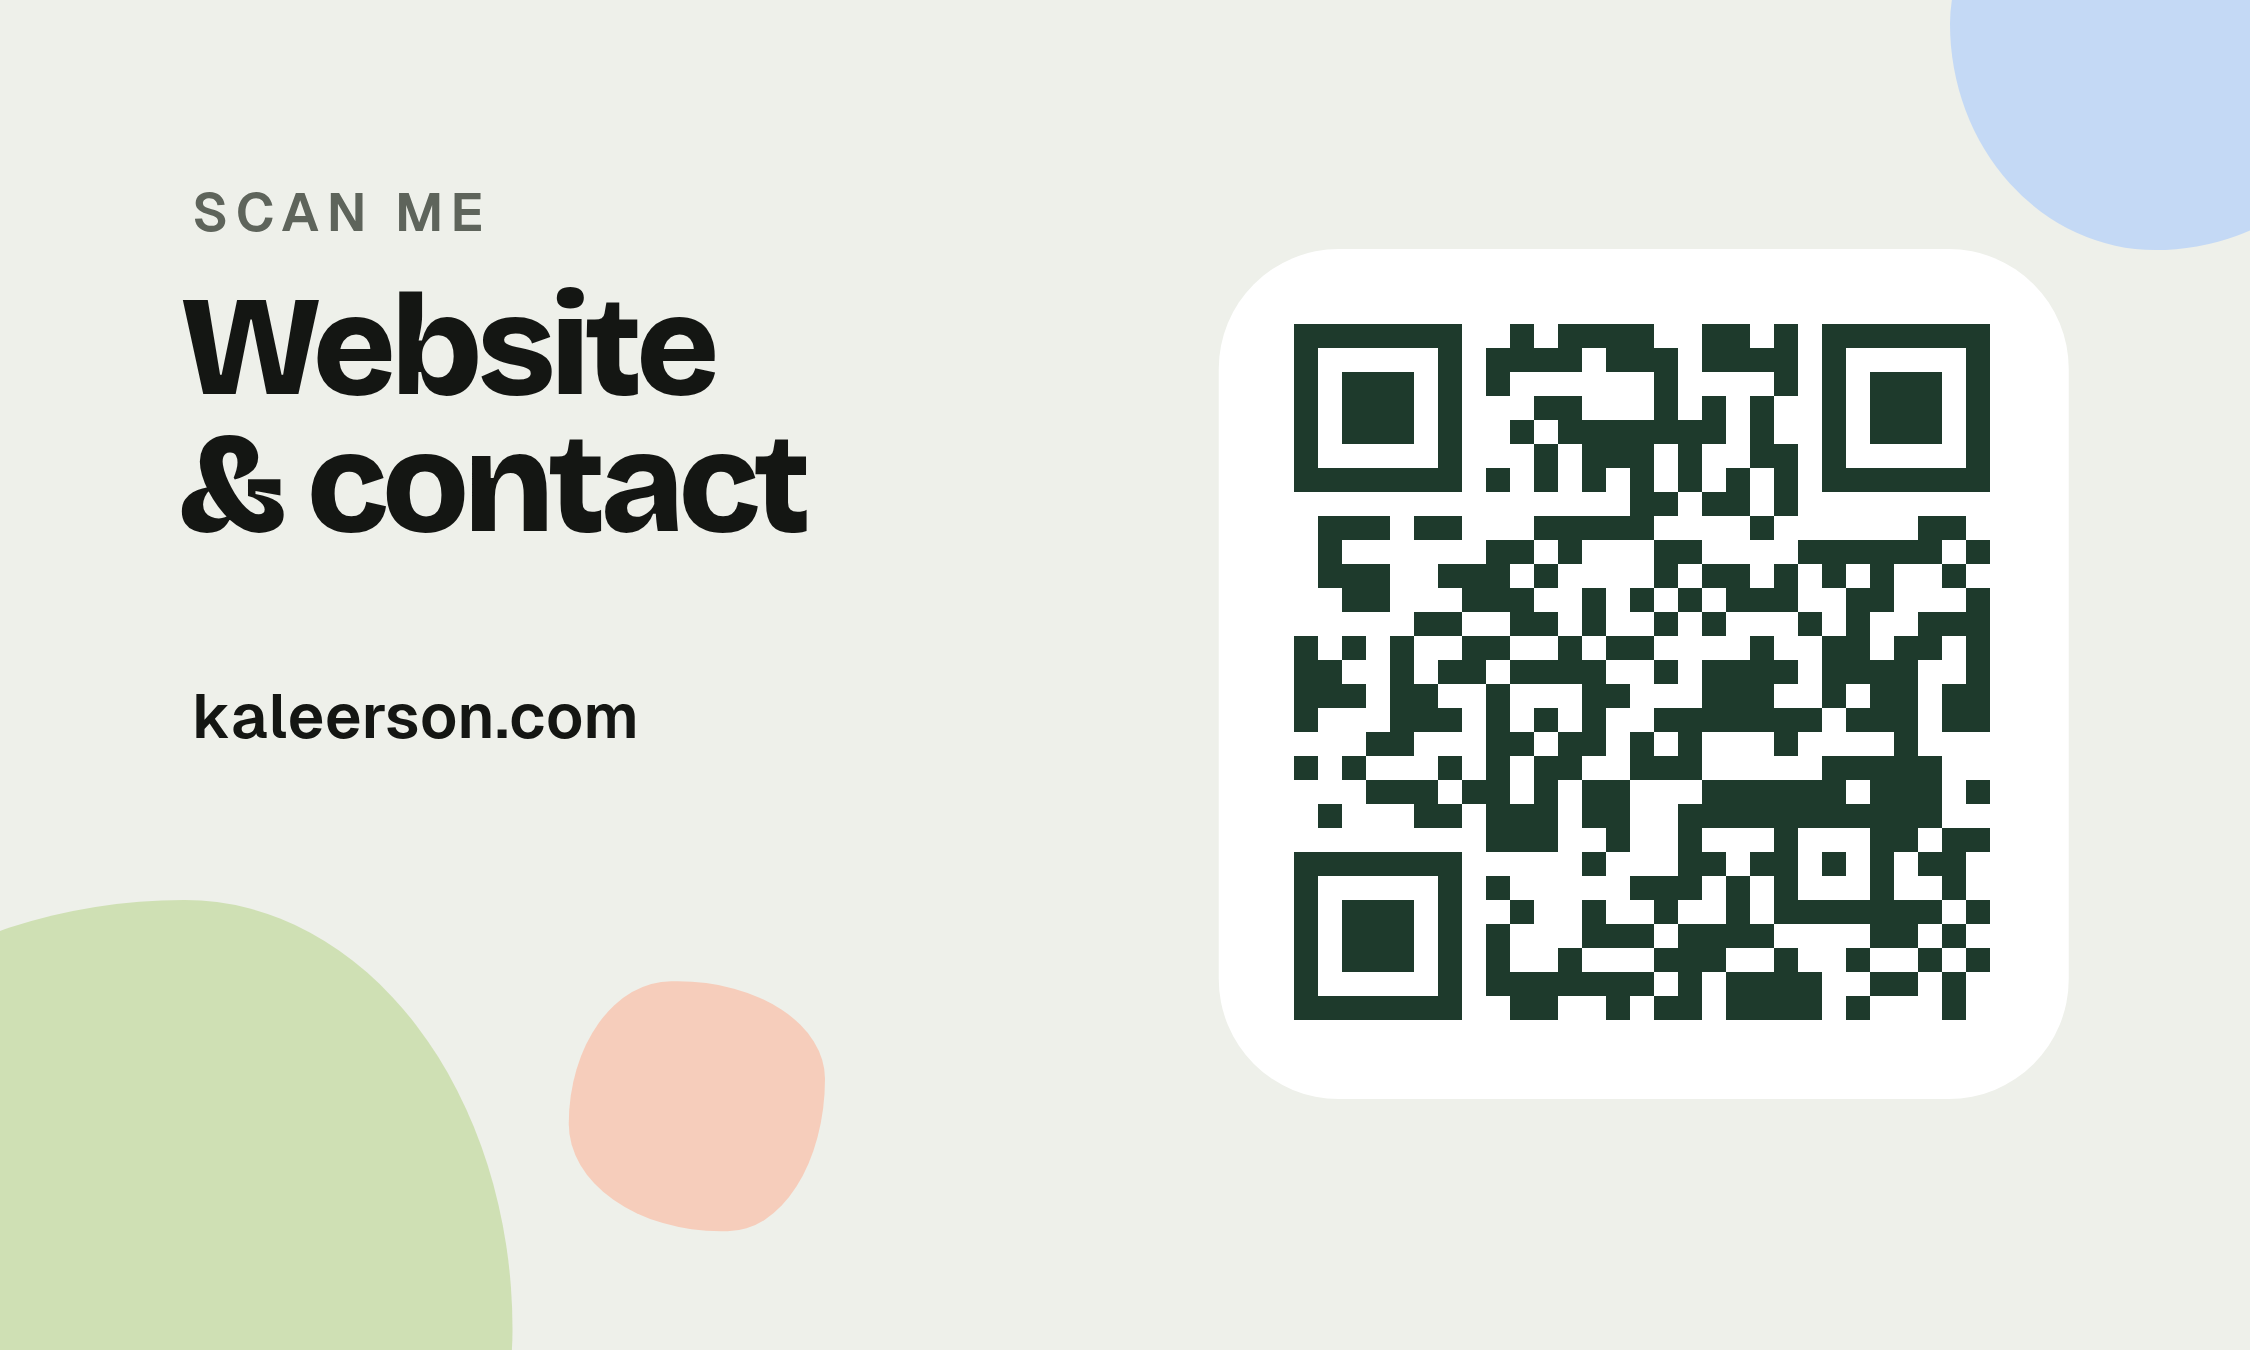
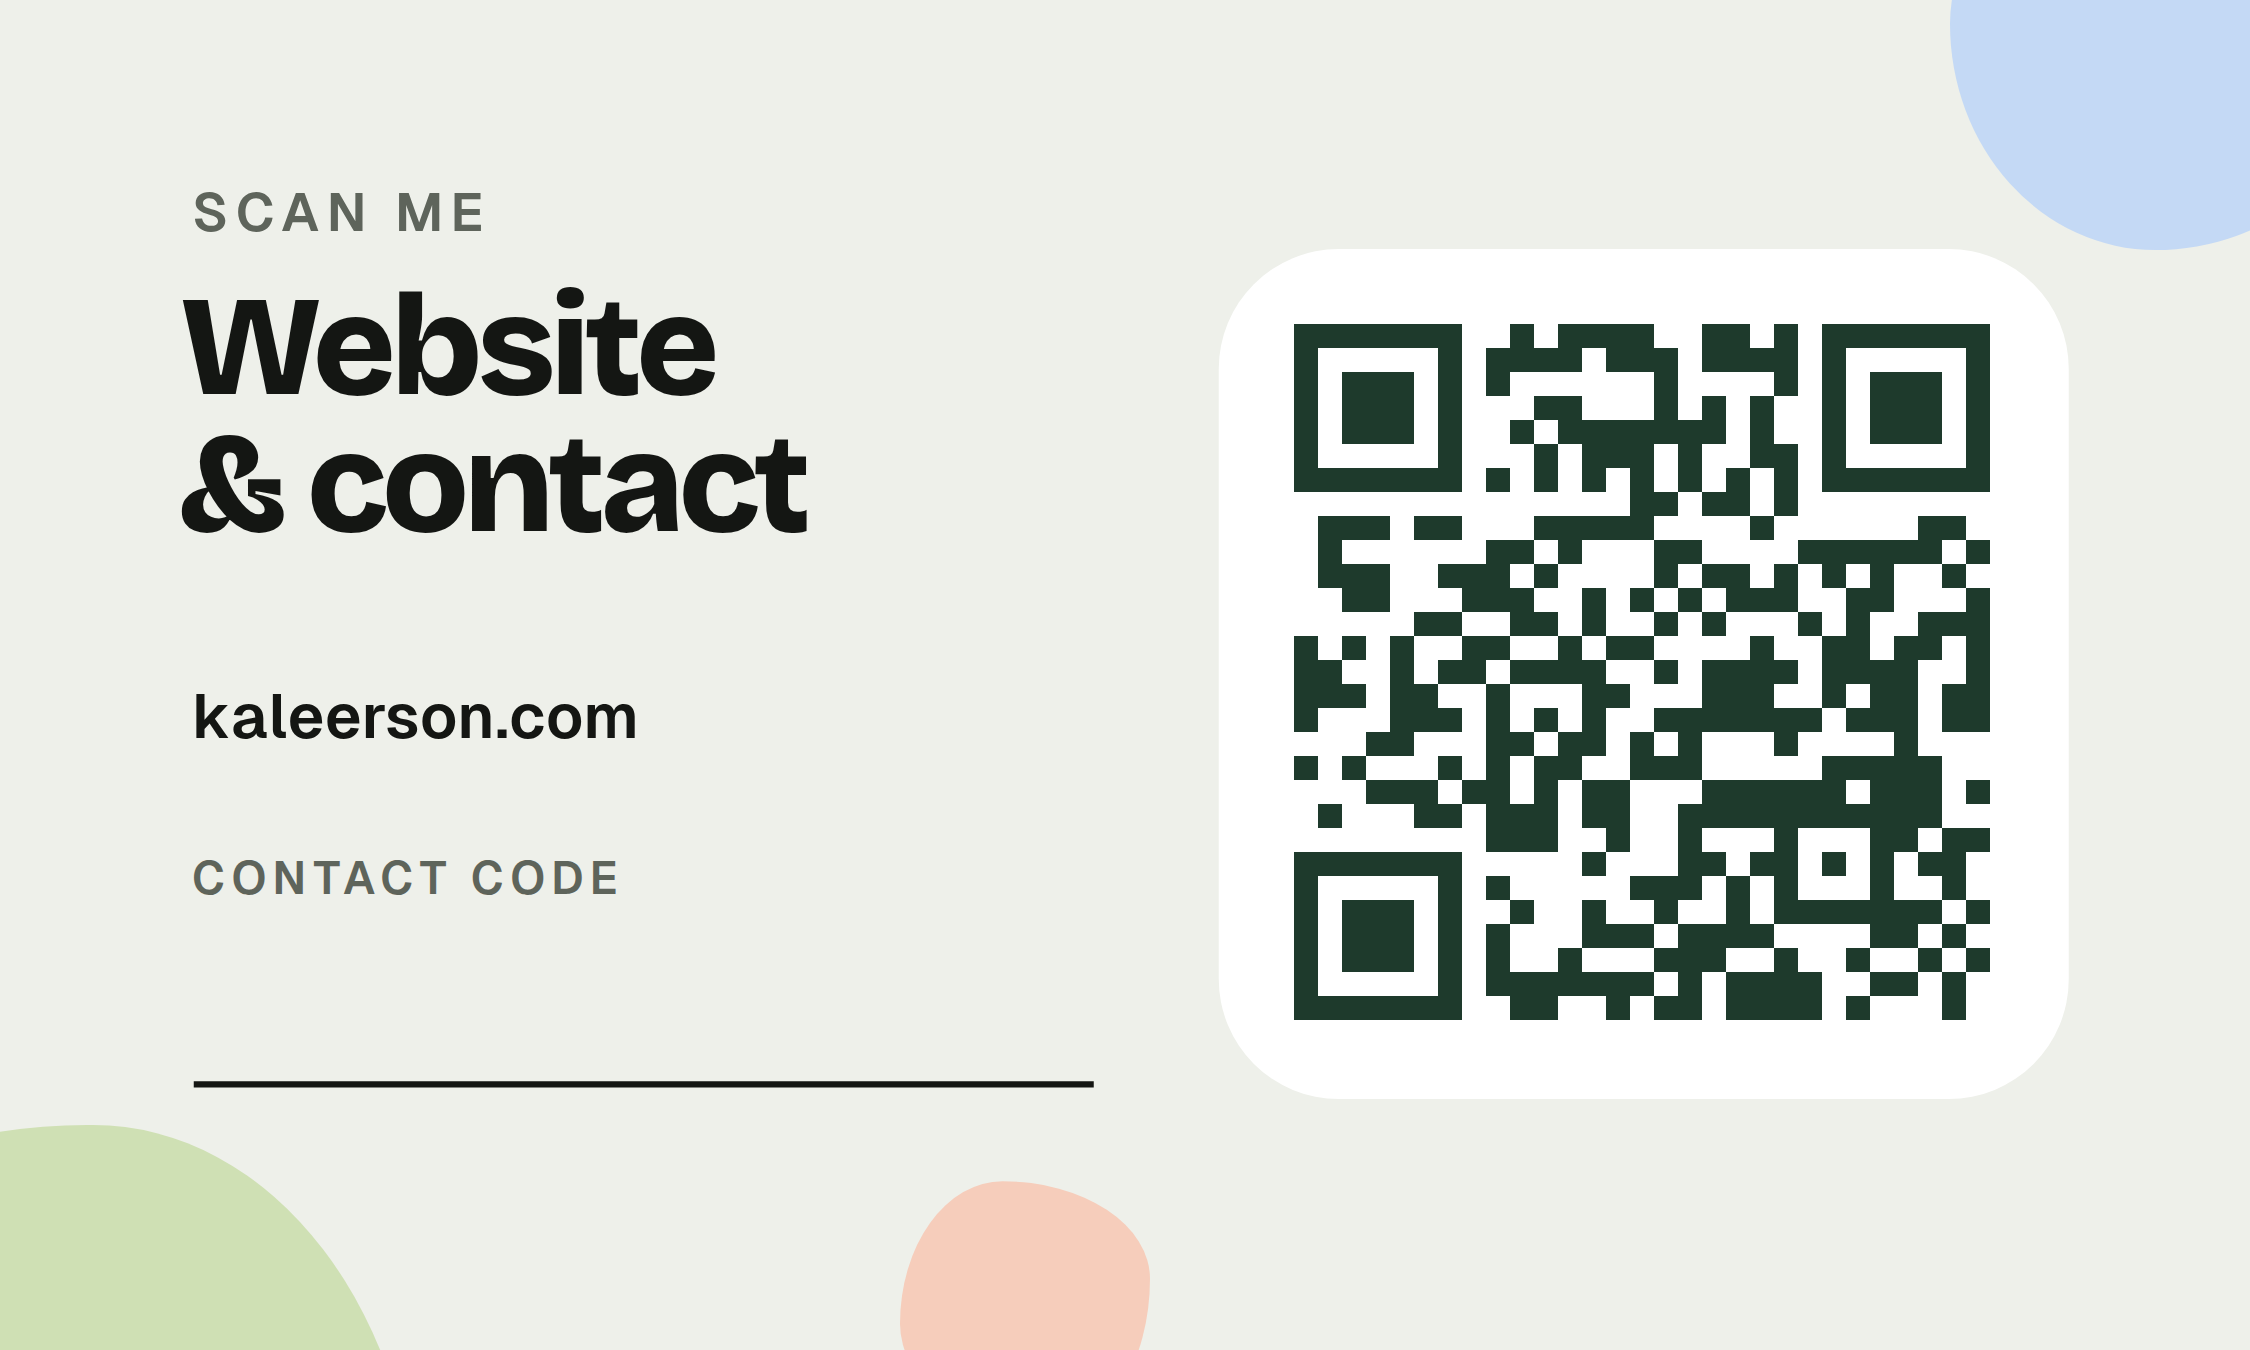
Add a write-in contact code line to the business card back
Claude-Session: https://claude.ai/code/session_01NyKGtDEnajGU1eFKV4tGGr

Changed region(s): [[0.0, 0.6222, 0.4978, 1.0], [0.3733, 0.8711, 0.5289, 1.0]]

diff --git a/design/business-card/build.js b/design/business-card/build.js
@@ -28,12 +28,14 @@ const front=`${base}<div class="card" style="background:#1E3A2C">
  <div style="position:absolute;left:.32in;bottom:.3in;font:500 7pt G,sans-serif;color:#B9C9AE">Las Vegas, Nevada</div>
  GUIDES</div>`;
 const back=`${base}<div class="card" style="background:#EEF0EA">
- <span class="blob" style="width:1.3in;height:1.3in;left:-.45in;bottom:-.55in;background:#CFE0B4"></span>
- <span class="blob" style="width:.42in;height:.42in;left:.95in;bottom:.2in;background:#F6CDBB;border-radius:41% 59% 39% 61% / 57% 39% 61% 43%"></span>
+ <span class="blob" style="width:1.3in;height:1.3in;left:-.6in;bottom:-.92in;background:#CFE0B4"></span>
+ <span class="blob" style="width:.42in;height:.42in;left:1.5in;bottom:-.14in;background:#F6CDBB;border-radius:41% 59% 39% 61% / 57% 39% 61% 43%"></span>
  <span class="blob" style="width:.7in;height:.7in;right:-.2in;top:-.28in;background:#C4D9F5"></span>
  <div style="position:absolute;left:.32in;top:.3in;font:600 6.5pt G,sans-serif;letter-spacing:.14em;color:#5E645B;text-transform:uppercase">Scan me</div>
  <div style="position:absolute;left:.3in;top:.47in;font:800 17pt/.95 B,sans-serif;letter-spacing:-.04em;color:#141613">Website<br>&amp; contact</div>
  <div style="position:absolute;left:.32in;top:1.14in;font:600 7.5pt G,sans-serif;color:#141613">kaleerson.com</div>
+ <div style="position:absolute;left:.32in;top:1.42in;font:600 5.5pt G,sans-serif;letter-spacing:.14em;color:#5E645B;text-transform:uppercase">Contact code</div>
+ <div style="position:absolute;left:.32in;top:1.8in;width:1.5in;border-top:.9pt solid #141613"></div>
  <div style="position:absolute;right:.3in;top:50%;transform:translateY(-50%);width:1.42in;height:1.42in;background:#fff;border-radius:.2in;padding:.13in">${qr.replace('<svg','<svg style="width:100%;height:100%;display:block"')}</div>
  GUIDES</div>`;
 const b=await chromium.launch({executablePath:'/opt/pw-browsers/chromium'});
